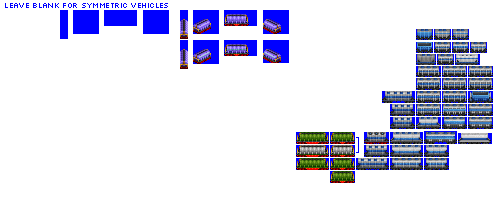
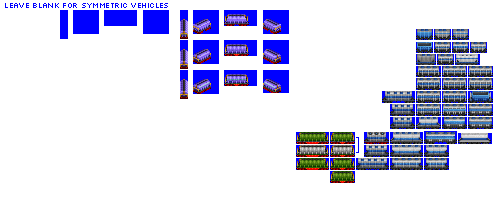
Change: revise gen 5 covered hopper sprites

diff --git a/src/train.py b/src/train.py
@@ -1241,8 +1241,7 @@ class CoveredHopperCarConsist(CoveredHopperCarConsistBase):
         super().__init__(**kwargs)
         self.default_cargos = ['SALT', 'SAND', 'POTA'] # !! needs updated
         # Graphics configuration
-        self.gestalt_graphics = GestaltGraphicsCargoSpecificLivery(recolour_maps=graphics_constants.covered_hopper_car_livery_recolour_maps,
-                                                                   cargo_specific_livery_uses_dedicated_input_row=True)
+        self.gestalt_graphics = GestaltGraphicsCargoSpecificLivery(recolour_maps=graphics_constants.covered_hopper_car_livery_recolour_maps)
 
 
 class CoveredHopperCarMineralsConsist(CoveredHopperCarConsistBase):
